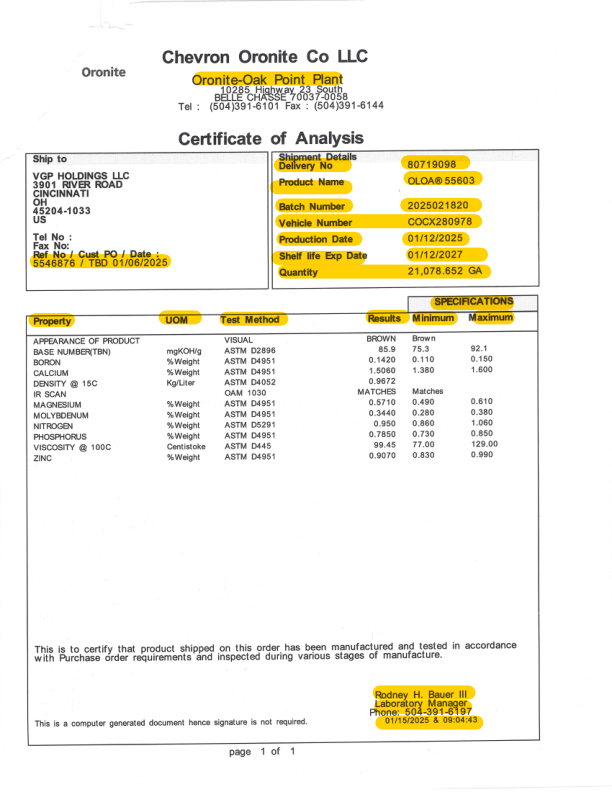
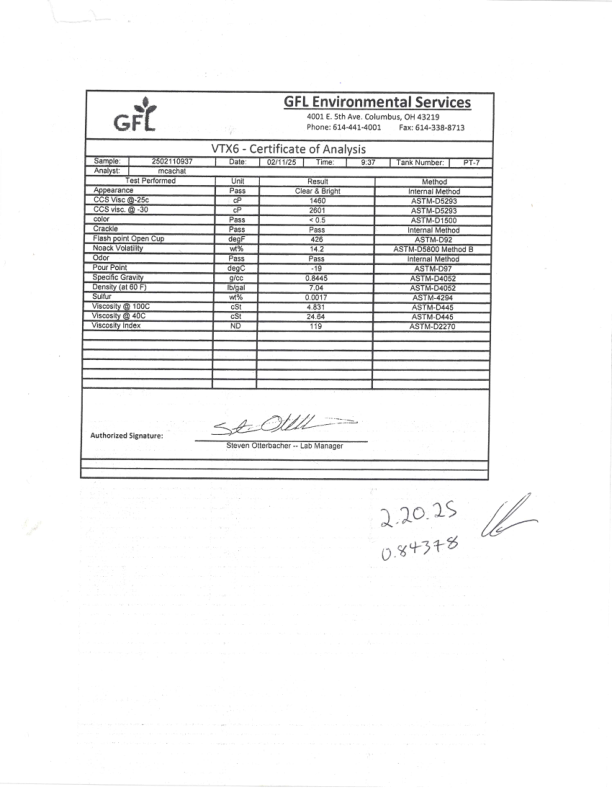
final

Changed region(s): [[0.031, 0.0606, 0.9003, 0.9697], [0.6209, 0.6364, 0.7451, 0.697]]

diff --git a/backend.py b/backend.py
@@ -7,21 +7,27 @@ import os
 import io
 import model_eval
 import json
+from dataParse import upload_pdf_and_get_url, insert_cofa_and_tests_from_dict
 
 app = Flask(__name__)
 
 
+import tempfile
+pdf_url = None
+
 @app.route('/upload', methods=['POST', 'GET'])
 def upload_file():
+    global pdf_url
     if 'file' not in request.files:
         return {'error': 'No file provided'}, 400
 
-    file = request.files['file']
+    uploaded_file = request.files['file']
 
     try:
-        # Save temporarily
-        filepath = 'temp_file'
-        file.save(filepath)
+        # Save to a temporary file with .pdf extension
+        with tempfile.NamedTemporaryFile(delete=False, suffix=".pdf") as tmp:
+            uploaded_file.save(tmp.name)
+            filepath = tmp.name
 
         # Open with fitz (PyMuPDF)
         doc = fitz.open(filepath)
@@ -33,11 +39,15 @@ def upload_file():
         image_path = 'output.png'
         image.save(image_path)
 
+        #filename = uploaded_file.filename or "uploaded.pdf"
+        #with open(filepath, 'rb') as file_stream:
+        #    pdf_url = upload_pdf_and_get_url(file_stream, filename)
+        pdf_url = upload_pdf_and_get_url(filepath)
 
         # Send to chatGPT
         response = extract_json_from_image(prompt, model, image_path)
         print(response)
-        print("Processed!")  # Prints to your terminal when a file is processed
+        print("Processed!")
 
         # Cleanup
         doc.close()
@@ -47,8 +57,10 @@ def upload_file():
     except Exception as e:
         return {'error': str(e)}, 500
 
+
 @app.route('/upload-immediately', methods=['POST'])
 def upload_immediately():
+    global pdf_url
     if 'file' not in request.files:
         return {'error': 'No file provided'}, 400
 
@@ -66,6 +78,8 @@ def upload_immediately():
         image = PILImage.open(io.BytesIO(pix.tobytes("png")))
         image_path = 'output.png'
         image.save(image_path)
+
+        pdf_url = upload_pdf_and_get_url(filepath)
 
         # Extract data using the model
         response = extract_json_from_image(prompt, model, image_path)
@@ -99,11 +113,10 @@ def verify_and_save():
     except Exception as e:
         return {'error': str(e)}, 500
 
-
-# Placeholder for the database population function
+# Populate the database
 def populate_database(data: dict):
-    # Replace this with your actual database population logic
-    print("Populating database with:", data)
+	insert_cofa_and_tests_from_dict(data, pdf_url)
+
 
 
 def extract_json_from_image(prompt: str, model: str, image_path: str) -> dict:
@@ -151,7 +164,7 @@ prompt = test_prompt = """You are tasked with extracting structured data from an
                         **General Extraction Rules:**
                         - If a field is not present, write "N/A".
                         - Be aware that fields might have multiple alternative names as listed below.
-                        
+
                         **General Information Fields:**
                         - product_name (alternatively: Product Name, Material)
                         - product_description (alternatively: Description, Details)
@@ -169,25 +182,25 @@ prompt = test_prompt = """You are tasked with extracting structured data from an
                         - tank_number (alternatively: Tank ID)
                         - vehicle_number (Vehicle Number)
                         - shelf_life_expiration_date (Shelf Life Exp Date)
-                        
+
                         **Tabular Information:**
                         The following fields must be extracted from any table present. Each field corresponds to a column. 
-                        
+
                         - test_name (alternatively: Test Method, Lubricant Testing Method, QC inspection Type)
                         - appearance (alternatively: Property, Characteristics)
                         - value (alternatively: Results)
                         - uom (alternatively: Measurement Unit, Volume Standard, Lubricant Unit)
                         - min_spec (alternatively: LCL, Lower Limit, Allowable Value, Min Performance Threshold)
                         - max_spec (alternatively: UCL, Upper Limit, Maximum Allowable Value, Max Performance Threshold)
-                        
+
                         **Special Rules for Tabular Data:**
                         - Check the actual column headers, as the data is frequently misaligned. Rearrange data to match the appropriate header.
                         - If `min_spec` and `max_spec` appear combined in a single column, split them accordingly. If only one value is present for both, use the same value in both fields.
                         - If data for any field is missing, replace it with "N/A". If an entire column is missing, fill the entire column with "N/A". All columns must have the same number of rows after filling missing values.
-                        
+
                         **Signature Extraction:**
                         - Extract the signature from the bottom of the document. Signature might be labeled QC approval or Authorized Signatory and may be printed or signed. If missing, use "N/A".
-                        
+
                         **Accuracy and Validation:**
                         - Double-check extracted values against the original document, ensuring the extracted columns are correctly labeled.
                         - Prioritize accuracy and clarity over speed.

diff --git a/dataParse.py b/dataParse.py
@@ -1,6 +1,7 @@
 import json
 import psycopg2
 import boto3
+import os
 
 def clean_signature(signature):
     # Format the signature correctly
@@ -18,7 +19,8 @@ def normalize_na(value):
 # Access the bucket and retrieve the correct PDF
 def upload_pdf_and_get_url(local_file_path, bucket_name='cofa-pdf-storage', region='us-east-1'):
     s3 = boto3.client('s3')
-    s3_key = f'uploads/{local_file_path}'
+    filename = os.path.basename(local_file_path)
+    s3_key = f'uploads/{filename}'
 
     s3.upload_file(
         local_file_path,
@@ -34,7 +36,7 @@ def upload_pdf_and_get_url(local_file_path, bucket_name='cofa-pdf-storage', regi
     return url
 
 # Connect to the database
-def insert_cofa_and_tests_from_dict(data: dict):
+def insert_cofa_and_tests_from_dict(data: dict, pdf_url: str):
     connection = psycopg2.connect(
         host="localhost",
         port=5432,
@@ -43,8 +45,6 @@ def insert_cofa_and_tests_from_dict(data: dict):
         dbname="cofa_db"
     )
     cursor = connection.cursor()
-
-    pdf_url = data.get("pdf_url")
 
 
     # Insert query for the CofA
